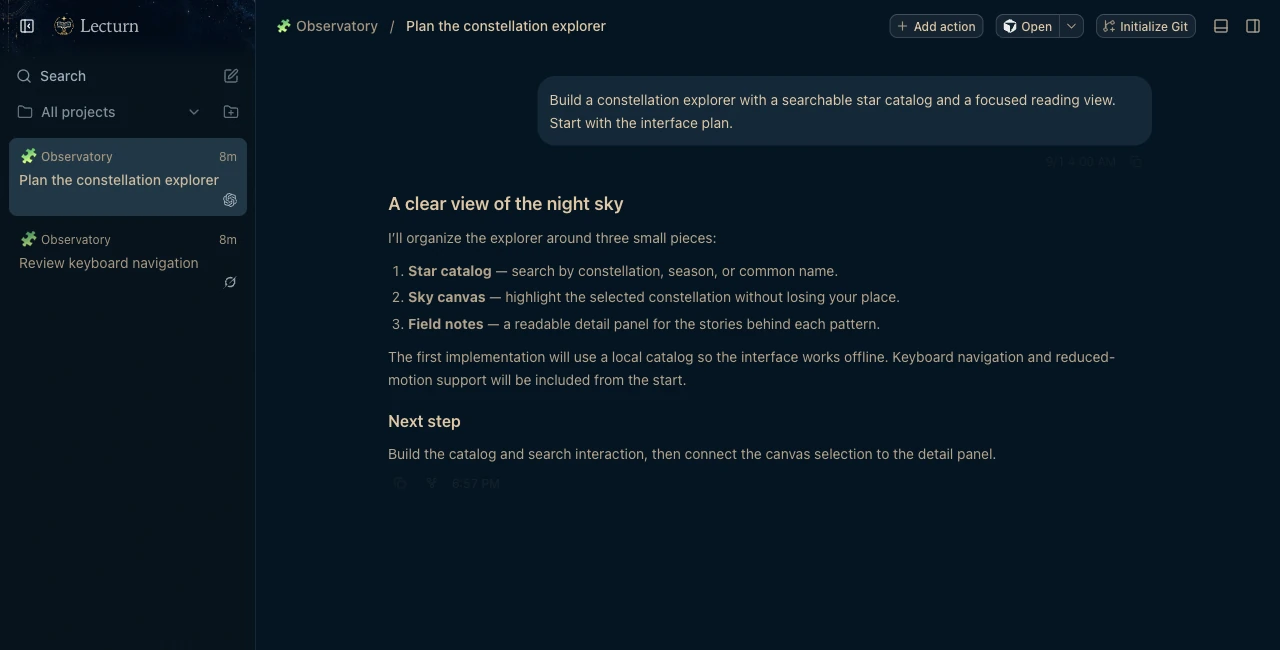
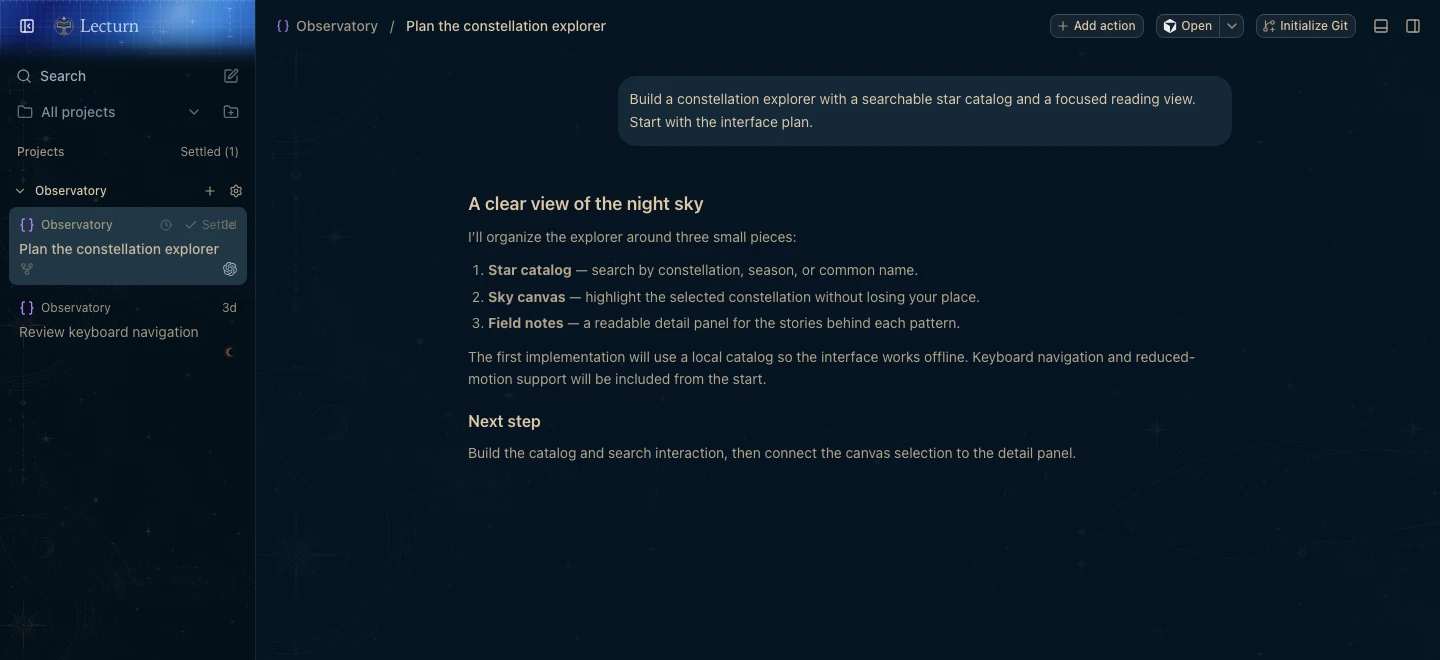
docs: refresh Lecturn desktop and mobile screenshots

diff --git a/README.md b/README.md
@@ -32,6 +32,13 @@ _Forking is available for Codex, Claude, and OpenCode. Cursor, Grok, and Antigra
 
 Lecturn Connect links your hosting computers to your account for remote access, managed notifications, and Live Activities. The hosting app must remain running. Local connections, direct pairing, SSH, and Tailscale remain free; managed Connect requires an active subscription, trial, or explicit complimentary access. Connect costs $10/month or $100/year for three managed environments, with a 14-day card-required trial.
 
+<p align="center">
+  <img src="./docs/images/lecturn-mobile-thread.webp" alt="Lecturn on iPhone showing a synthetic coding conversation." width="32%" />
+  <img src="./docs/images/lecturn-mobile-review.webp" alt="Lecturn on iPhone reviewing changes in a synthetic project." width="32%" />
+</p>
+
+_Current iPhone interface, captured with synthetic projects and conversations._
+
 The iOS app is a companion to your existing account access. Notification delivery also needs device permission and the corresponding settings enabled. See [Connect access](./docs/user/connect-subscription.md) and [remote access](./docs/user/remote-access.md) for details.
 
 ## Installation and access
